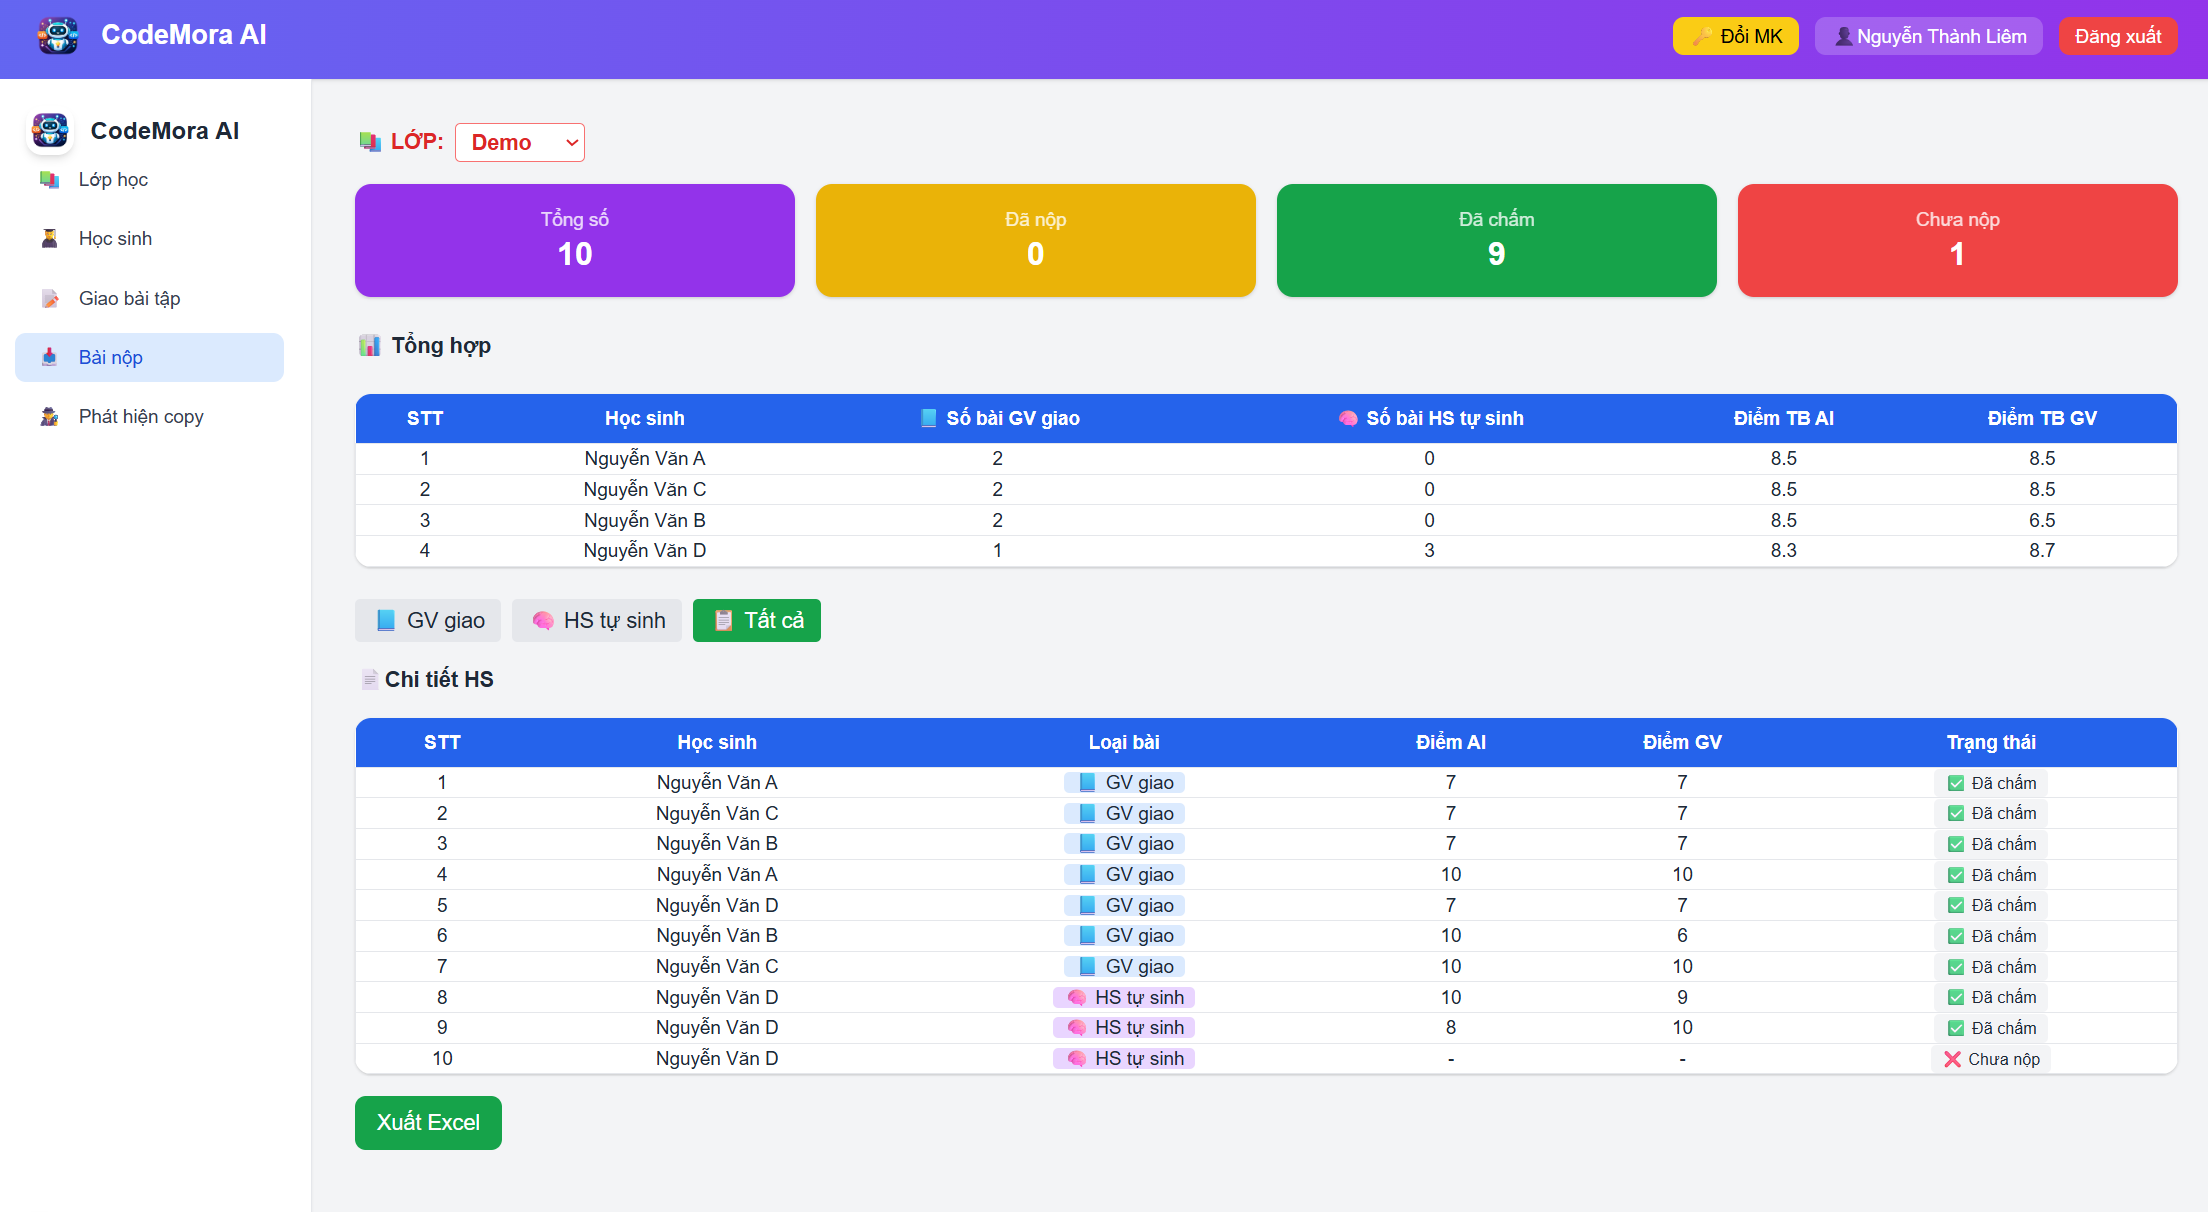
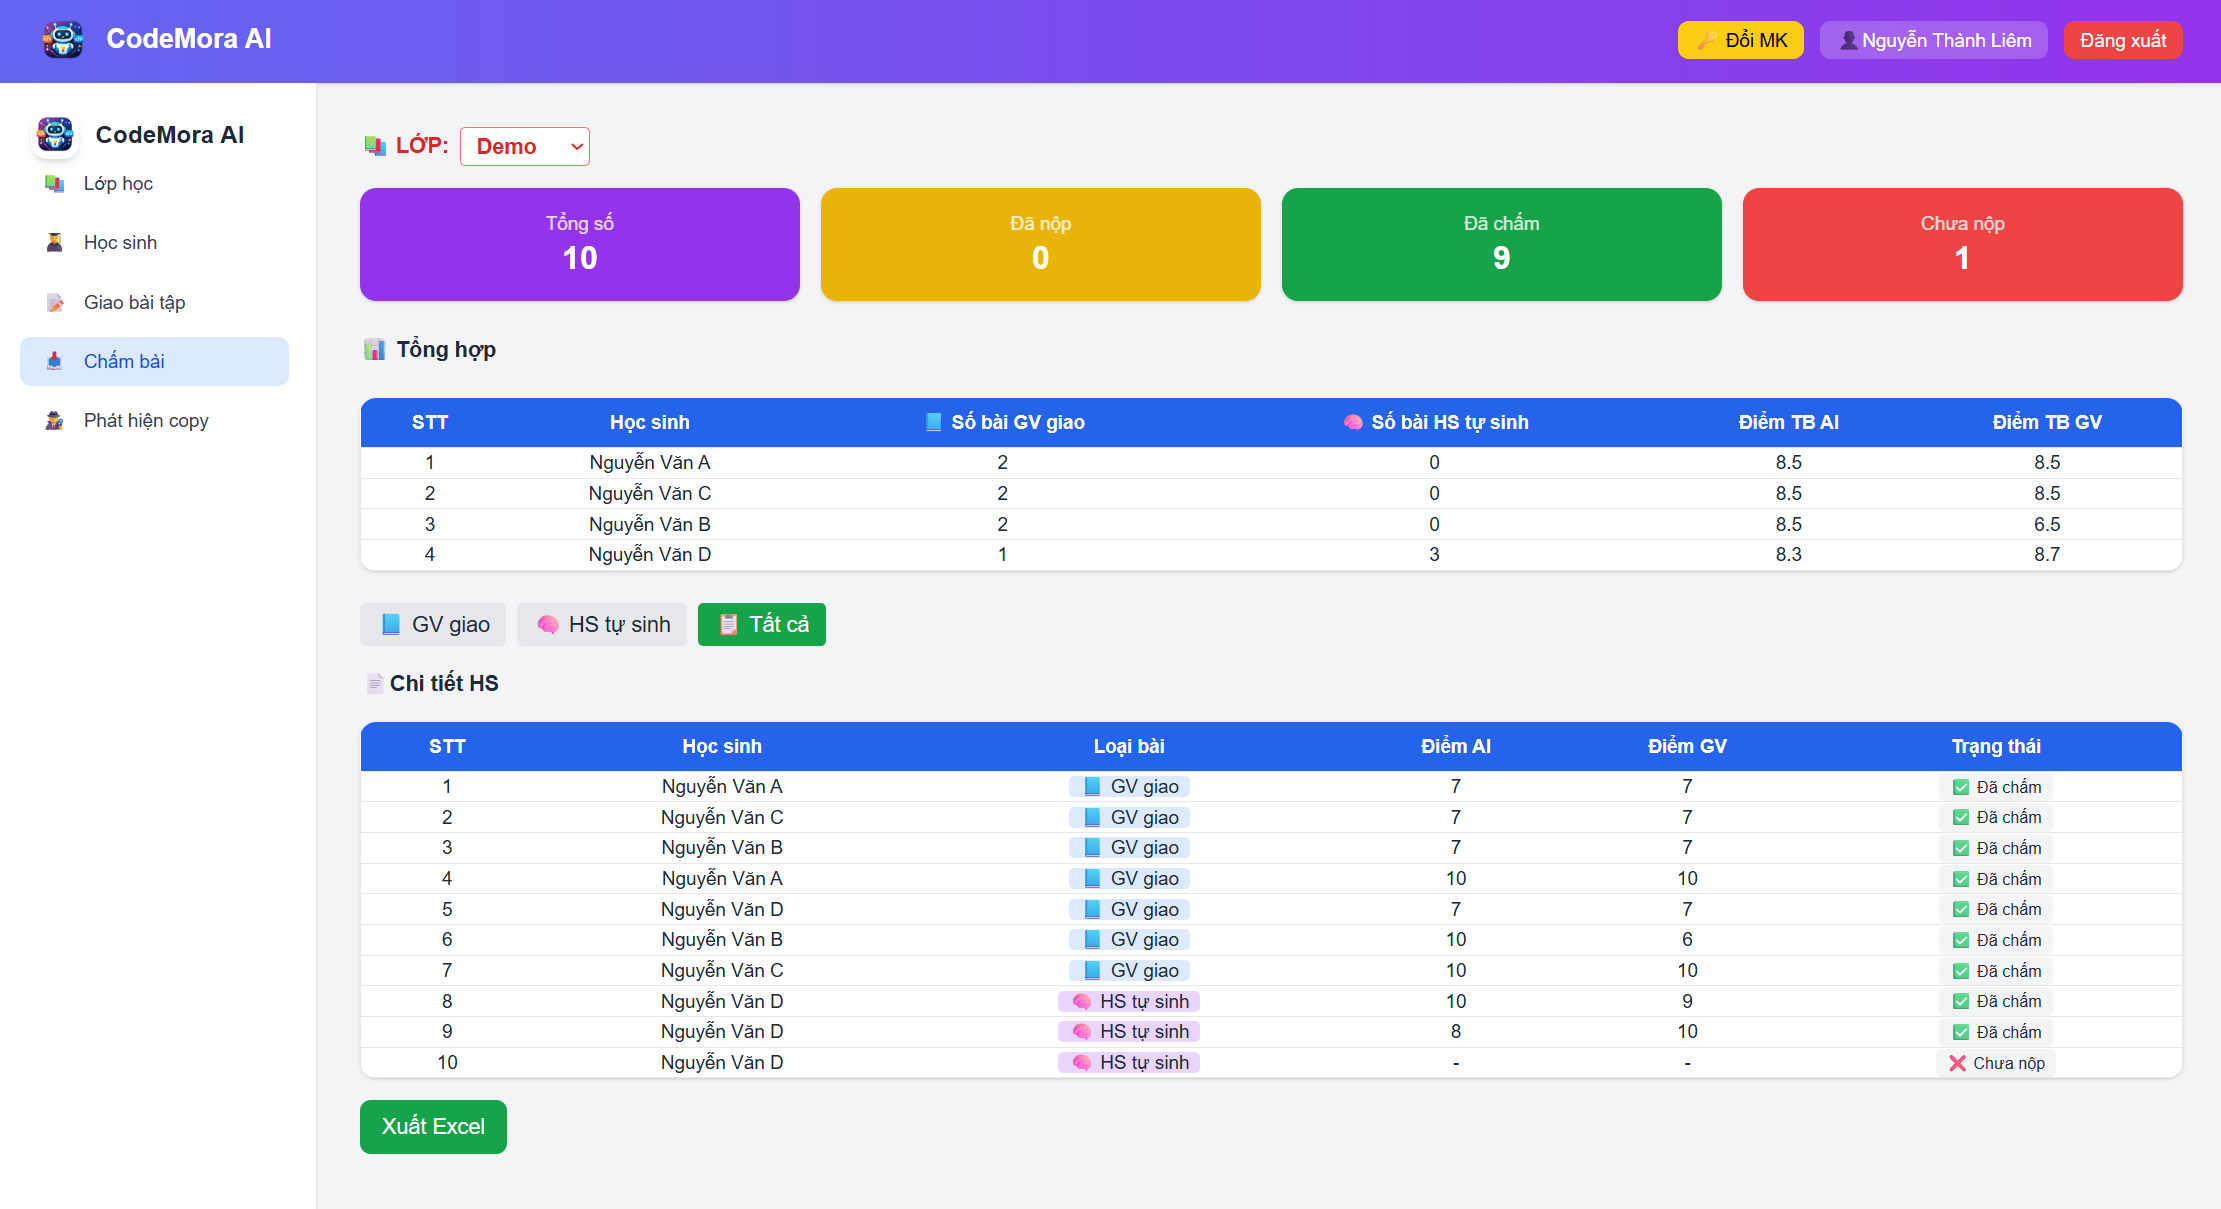
fix full app2

diff --git a/app/teacher/TeacherPage.tsx b/app/teacher/TeacherPage.tsx
@@ -355,9 +355,7 @@ useEffect(()=>{
 useEffect(()=>{
   if(!selectedClass) return
 
-  console.log("🔥 LOAD:", selectedClass, tab)
-
-  if(tab==="students"){
+   if(tab==="students"){
     loadStudents(selectedClass)
   }
 
@@ -379,7 +377,7 @@ useEffect(()=>{
 
 useEffect(()=>{
   const cls = searchParams.get("class")
-  if(!cls) return  
+  if(cls) return  
     setSelectedClass(cls)
   },[searchParams])
 
@@ -549,7 +547,9 @@ async function loadClasses(){
 
   setClasses(data)
 
-  // 🔥 FIX CỐT LÕI
+  if (data.length>0){
+    setSelectedClass(prev => prev || data[0].id)
+  }
   const cls = searchParams.get("class")
 
   if(cls){
@@ -1365,7 +1365,7 @@ Lưu
       `}
     >
       <span>📥</span>
-      <span>Bài nộp</span>
+      <span>Chấm bài</span>
     </li>
 
 
